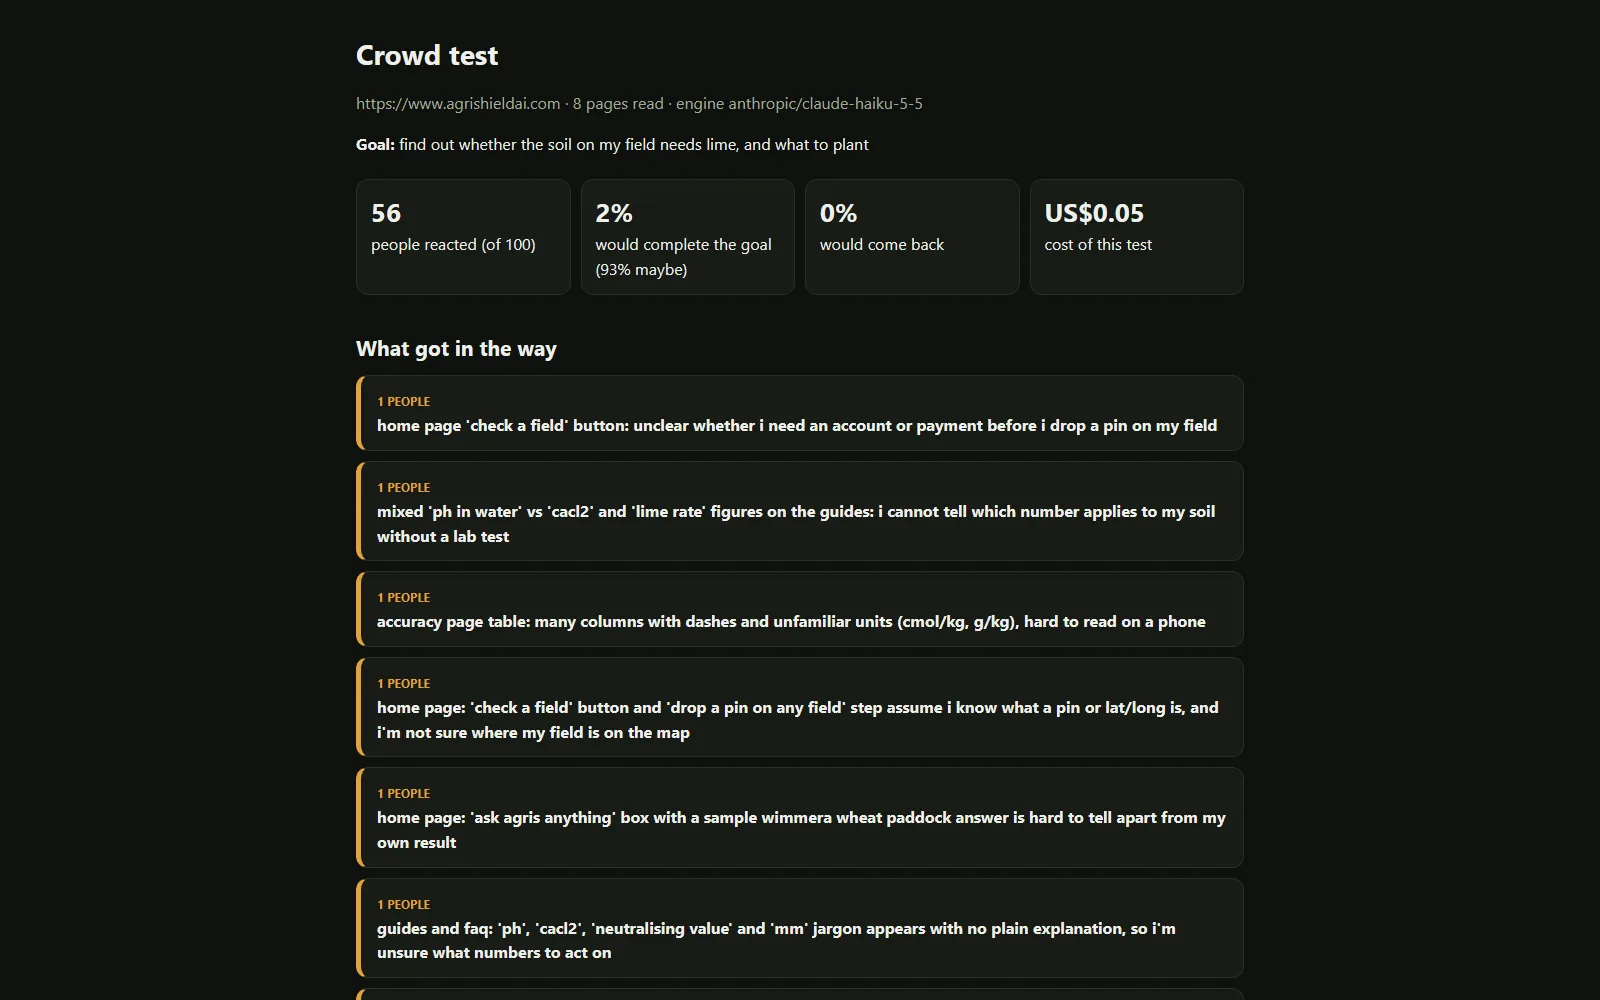
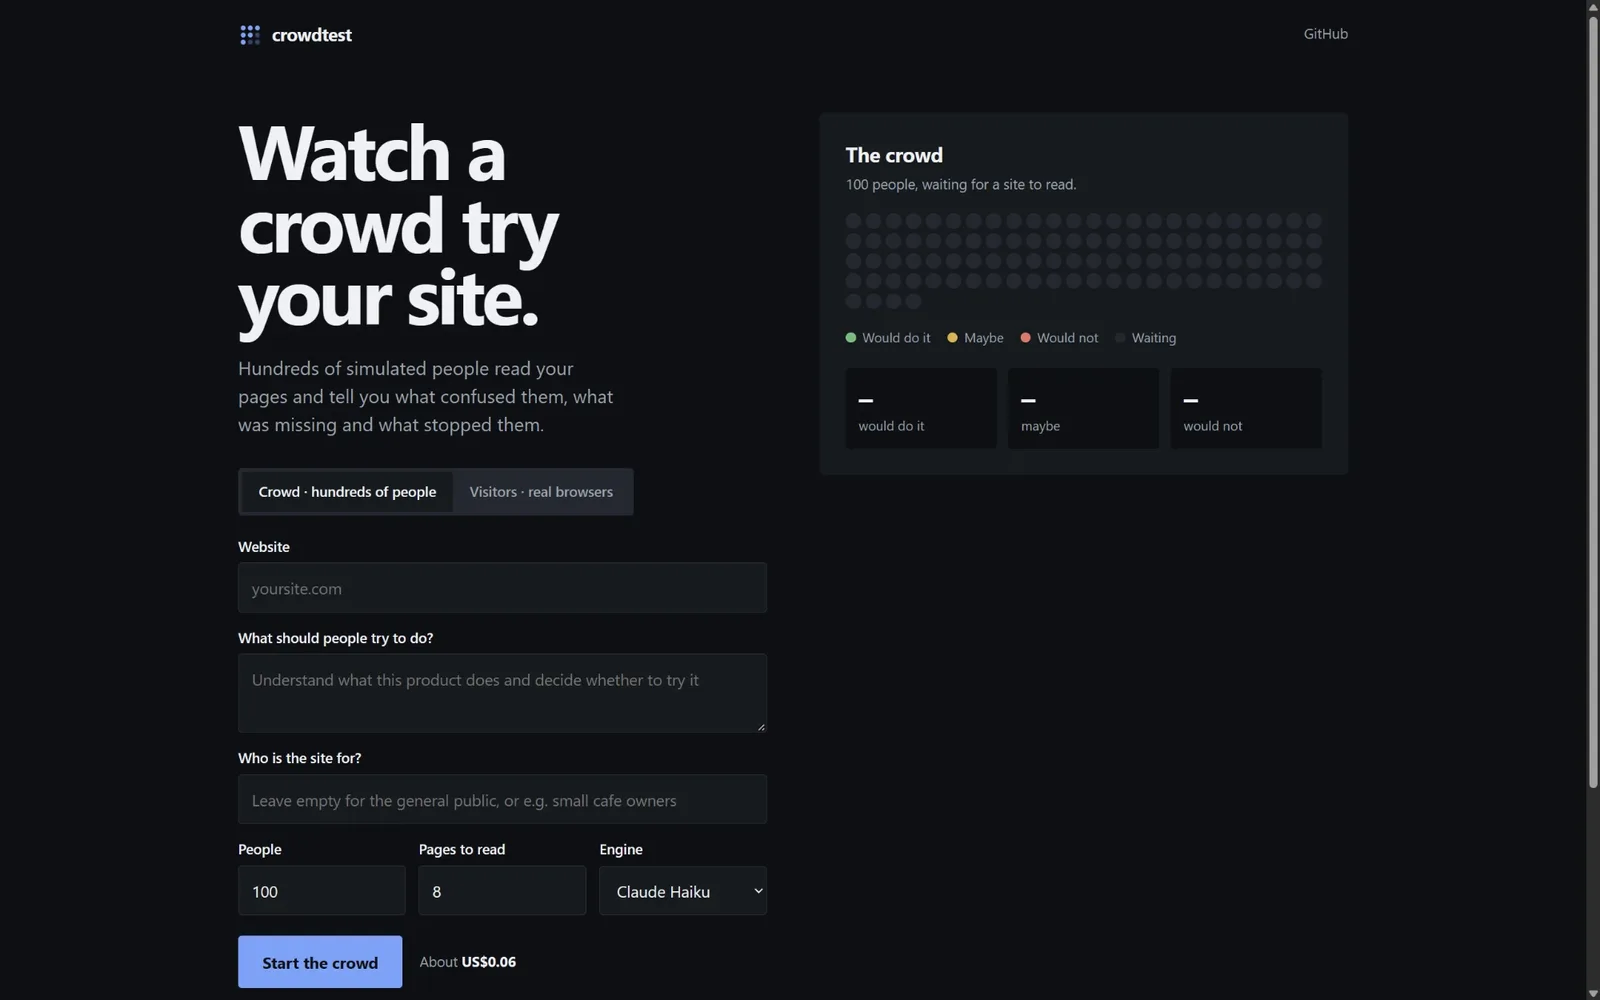
Use landing page screenshots and open every project on click
AgriShield, launchcheck and crowdtest now show their landing pages.
The Guardian links to its live GitHub Pages site with a separate source
link, and each Before university row is clickable as a whole.

diff --git a/src/data/projects.js b/src/data/projects.js
@@ -6,7 +6,7 @@ export const projects = [
     stack: 'Python, FastAPI, React, TypeScript',
     text: 'Pick a spot and get soil estimates, a ranking of about 63 crops and management advice, with an honest range on every figure.',
     image: '/images/projects/agrishield.webp',
-    alt: 'Screenshot of the AgriShield home page with a soil profile diagram',
+    alt: 'AgriShield landing page: "Know your field before you plant." over a 3D satellite block of farmland',
     link: 'https://agrishieldai.com',
     cta: 'Open AgriShield',
     uni: true,
@@ -18,8 +18,9 @@ export const projects = [
     text: 'A guard for AI agents. Plain rules decide what an agent may do, and guardian-v4, a multilingual classifier I fine-tuned, reads untrusted text for prompt injection before the agent does. On 7,601 texts in 8 languages it had never seen, it catches 76.5% of attacks at a 2.1% false-alarm rate.',
     image: '/images/projects/guardian.webp',
     alt: 'The Guardian landing page: "Your agents read everything. The Guardian reads it first."',
-    link: 'https://github.com/NiharPatel2545/The-Guardian',
-    cta: 'View on GitHub',
+    link: 'https://niharpatel2545.github.io/The-Guardian/',
+    cta: 'Open The Guardian',
+    repo: 'https://github.com/NiharPatel2545/The-Guardian',
     uni: true,
   },
   {
@@ -28,7 +29,7 @@ export const projects = [
     stack: 'Python, FastAPI',
     text: 'A passive security check for websites and projects built fast. It finds API keys shipped to the browser, weak TLS, missing security headers, subdomain takeover, email spoofing and secrets in git history, then gives a score and a plain-English fix for each problem.',
     image: '/images/projects/launchcheck.webp',
-    alt: 'launchcheck report for a deliberately vulnerable demo site, graded F with exposed API keys',
+    alt: 'launchcheck landing page: "Find the holes before you launch." with a site address box and the list of checks',
     link: 'https://github.com/NiharPatel2545/launchcheck',
     cta: 'View on GitHub',
     uni: true,
@@ -39,7 +40,7 @@ export const projects = [
     stack: 'Python, browser-use, Claude, Ollama',
     text: 'Simulated visitors try one goal on a website and say where they got stuck. AI browser agents play different people, or crowd mode asks hundreds of generated people for a few cents, or for free on a local model.',
     image: '/images/projects/crowdtest.webp',
-    alt: 'crowdtest report from 100 simulated people trying the AgriShield site',
+    alt: 'crowdtest landing page: "Watch a crowd try your site." with a grid of 100 simulated people and the test form',
     link: 'https://github.com/NiharPatel2545/crowdtest',
     cta: 'View on GitHub',
     uni: true,

diff --git a/src/components/Projects.jsx b/src/components/Projects.jsx
@@ -17,7 +17,10 @@ export default function Projects() {
             <h3>{p.name}</h3>
             <p>{p.text}</p>
             <p className="stack">{p.stack}</p>
-            <a className="btn" href={p.link} target="_blank" rel="noopener noreferrer">{p.cta}</a>
+            <div className="actions">
+              <a className="btn" href={p.link} target="_blank" rel="noopener noreferrer">{p.cta}</a>
+              {p.repo && <a href={p.repo} target="_blank" rel="noopener noreferrer">Source on GitHub</a>}
+            </div>
           </div>
         </article>
       ))}

diff --git a/src/styles.css b/src/styles.css
@@ -101,6 +101,8 @@ p{margin:0 0 1rem}
 .earlier li:hover{background:var(--cobalt-soft)}
 .earlier img{display:block;width:100%;aspect-ratio:16/10;object-fit:cover;object-position:top}
 .earlier h4 a{color:var(--ink);text-decoration:none}
+.earlier li{position:relative;cursor:pointer}
+.earlier h4 a::after{content:"";position:absolute;inset:0}
 .earlier h4 a:hover{text-decoration:underline}
 .earlier li:hover,.earlier li:hover .stack,.earlier li:hover .when,.earlier li:hover p{color:#121417}
 .earlier li:hover h4 a{color:#121417}
